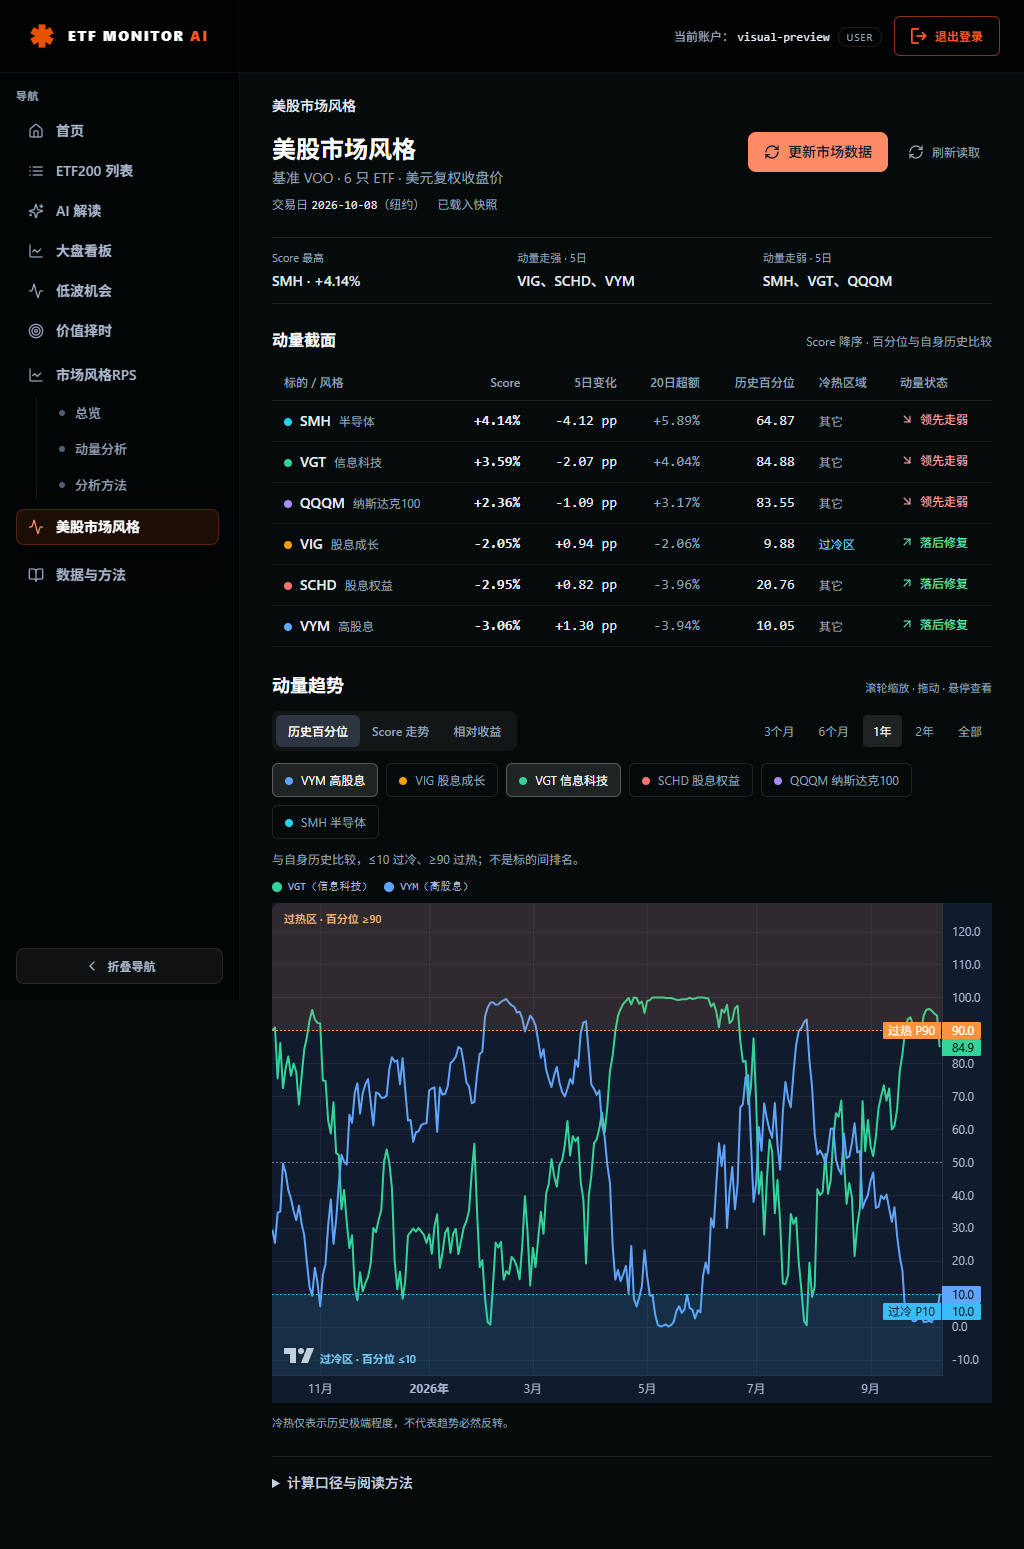
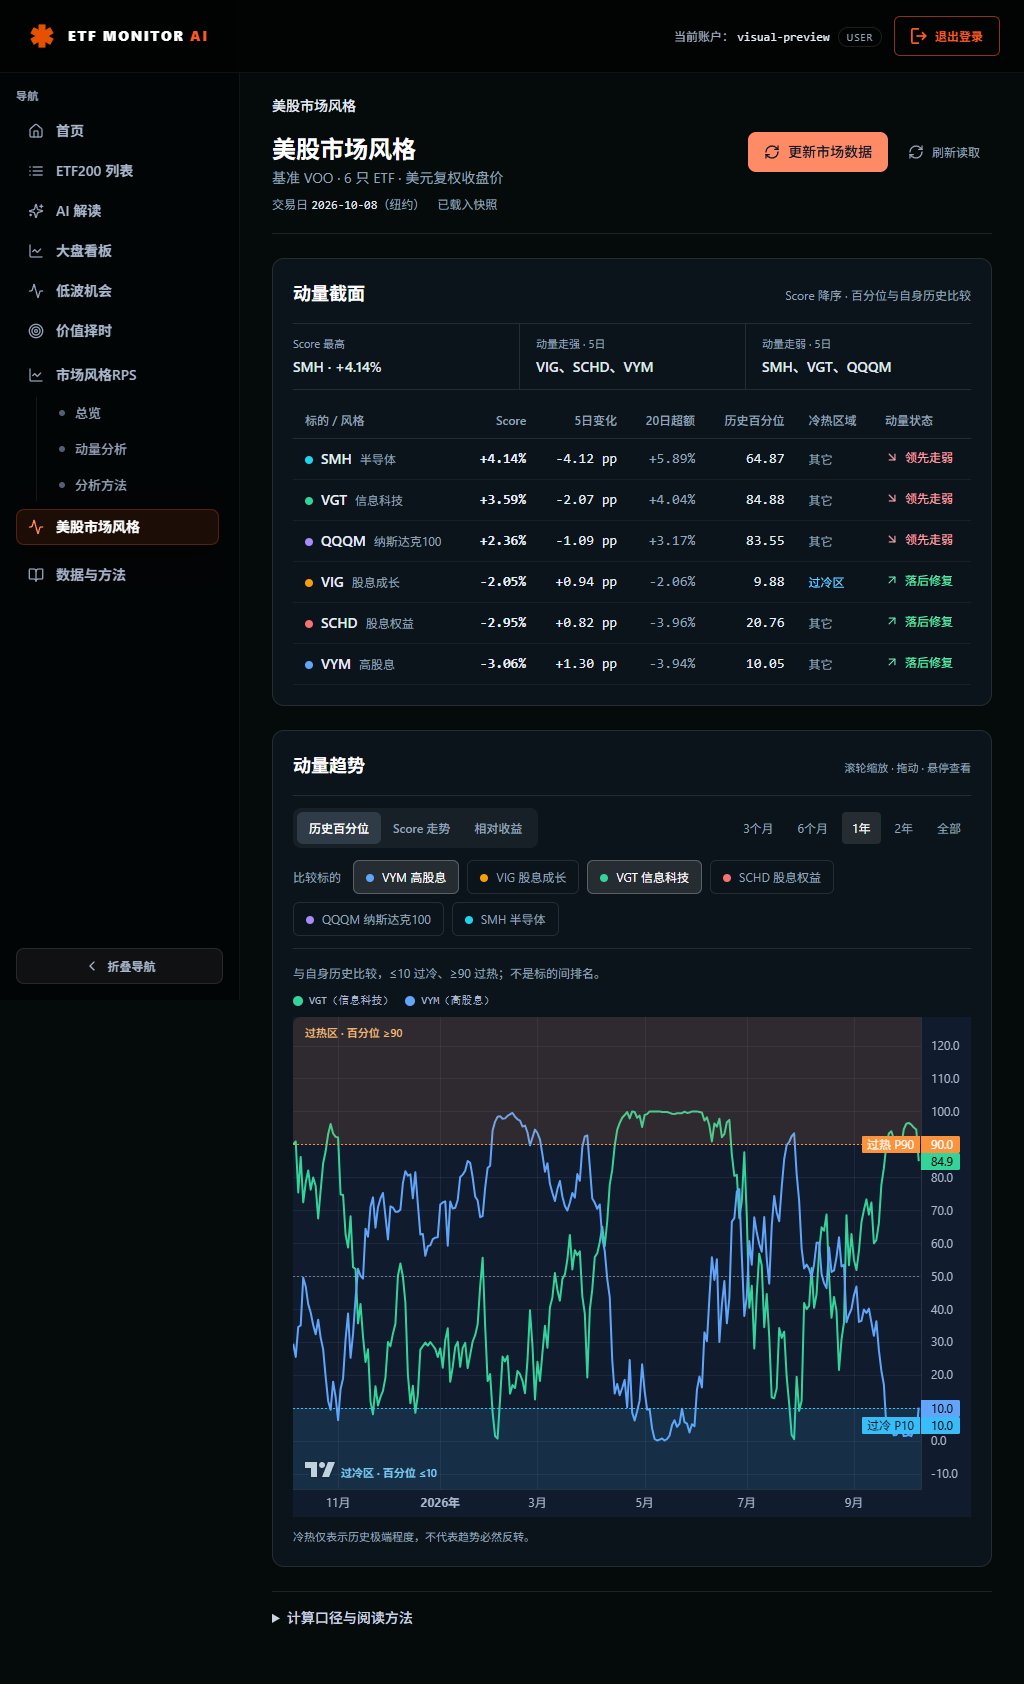
更新UI

diff --git a/src/pages/UsMarketStyle.tsx b/src/pages/UsMarketStyle.tsx
@@ -154,7 +154,8 @@ export default function UsMarketStyle() {
     <PageContentContainer>
       <PageBreadcrumb items={[{ label: '美股市场风格' }]} />
       <div className="space-y-6">
-        <header className="flex flex-wrap items-start justify-between gap-3">
+        <header aria-label="市场数据工具栏" className="space-y-3 border-b border-white/10 pb-5">
+          <div className="flex flex-wrap items-start justify-between gap-4">
           <div>
             <h1 className="text-2xl font-semibold text-white">美股市场风格</h1>
             <p className="mt-1 text-sm text-[#94A3B8]">基准 VOO · {US_STYLE_TARGETS.length} 只 ETF · 美元复权收盘价</p>
@@ -163,7 +164,7 @@ export default function UsMarketStyle() {
               <span className={cn('ml-3', stale ? 'text-amber-300' : 'text-slate-400')}>{stale ? '数据已过期' : '已载入快照'}</span>
             </p>}
           </div>
-          <div className="flex flex-wrap gap-2">
+          <div className="flex flex-wrap items-center gap-2">
           <button type="button" disabled={updating || loading} onClick={() => void updateMarketData()}
             className="inline-flex items-center gap-2 rounded-lg bg-[#FF8A66] px-4 py-2.5 text-sm font-medium text-[#111827] transition-colors hover:bg-[#FFA084] focus-visible:outline-none focus-visible:ring-2 focus-visible:ring-orange-200 disabled:opacity-50 motion-reduce:transition-none">
             <RefreshCw className={cn('h-4 w-4', updating && 'animate-spin')} />{updating ? '更新中...' : '更新市场数据'}
@@ -173,7 +174,7 @@ export default function UsMarketStyle() {
             <RefreshCw className={cn('h-4 w-4', loading && 'animate-spin')} />刷新读取
           </button>
           </div>
-        </header>
+          </div>
         {updateMessage && <div role={updateError ? 'alert' : 'status'} aria-live="polite"
           className={cn('border-l-2 px-3 py-2 text-sm', updateError ? 'border-red-400 text-red-200' : 'border-sky-400/50 text-slate-300')}>
           {updateMessage}{runUrl && <a href={runUrl} target="_blank" rel="noopener noreferrer" className="ml-3 underline">查看 GitHub 任务</a>}
@@ -182,23 +183,24 @@ export default function UsMarketStyle() {
         {error && <p role="alert" className="rounded-lg border border-red-400/25 bg-red-400/10 p-4 text-sm text-red-200">{error}{snapshot ? ' 当前保留上次读取的数据。' : ''}</p>}
         {stale && snapshot && <p role="alert" className="rounded-lg border border-amber-400/25 bg-amber-400/10 p-4 text-sm text-amber-200">数据已超过 7 个自然日未更新，以下仅为历史快照，请检查 GitHub Actions。</p>}
         {missingTargets.length > 0 && <p role="alert" className="rounded-lg border border-amber-400/25 bg-amber-400/10 p-4 text-sm text-amber-200">当前快照尚未包含 {missingTargets.join('、')}，请更新数据库发布校验并运行刷新任务；其余标的仍可独立比较。</p>}
+        </header>
         {snapshot && <>
-          <div className="grid gap-4 border-y border-white/10 py-3 sm:grid-cols-3" aria-label="动量摘要">
+          <section className="min-w-0 rounded-xl border border-white/10 bg-[#0C141B] p-4 sm:p-5" aria-labelledby="us-cross-section">
+            <div className="mb-4 flex flex-wrap items-baseline justify-between gap-2">
+              <h2 id="us-cross-section" className="text-lg font-semibold text-white">动量截面</h2>
+              <p className="text-xs text-[#94A3B8]">Score 降序 · 百分位与自身历史比较</p>
+            </div>
+          <div className="mb-3 grid divide-y divide-white/10 border-y border-white/10 sm:grid-cols-3 sm:divide-x sm:divide-y-0" aria-label="动量摘要">
             {[
               { title: 'Score 最高', text: `${snapshot.items[0].ticker} · ${fmt(snapshot.items[0].scorePct)}` },
               { title: '动量走强 · 5日', text: rising },
               { title: '动量走弱 · 5日', text: falling },
-            ].map((card) => <div key={card.title} className="min-w-0">
+            ].map((card) => <div key={card.title} className="min-w-0 py-3 sm:px-4 sm:first:pl-0 sm:last:pr-0">
               <div className="text-[11px] text-[#94A3B8]">{card.title}</div>
               <div className="mt-1 text-sm font-medium text-slate-200">{card.text}</div>
             </div>)}
           </div>
-          <section aria-labelledby="us-cross-section">
-            <div className="mb-3 flex flex-wrap items-baseline justify-between gap-2">
-              <h2 id="us-cross-section" className="text-base font-semibold text-white">动量截面</h2>
-              <p className="text-xs text-[#94A3B8]">Score 降序 · 百分位与自身历史比较</p>
-            </div>
-            <div className="overflow-x-auto">
+            <div className="overflow-x-auto" role="region" aria-label="动量截面表格" tabIndex={0}>
               <table className="w-full whitespace-nowrap text-left text-sm">
                 <thead className="text-xs text-[#94A3B8]"><tr>
                   {[
@@ -231,13 +233,14 @@ export default function UsMarketStyle() {
                 })}</tbody>
               </table>
             </div>
+            <p className="mt-2 text-[11px] text-slate-400 sm:hidden">左右滑动表格查看全部指标</p>
           </section>
-          <section className="space-y-3" aria-labelledby="us-trend">
+          <section className="min-w-0 space-y-4 rounded-xl border border-white/10 bg-[#0C141B] p-4 sm:p-5" aria-labelledby="us-trend">
             <div className="flex flex-wrap items-baseline justify-between gap-2">
               <h2 id="us-trend" className="text-lg font-semibold text-white">动量趋势</h2>
               <span className="text-[11px] text-slate-400">滚轮缩放 · 拖动 · 悬停查看</span>
             </div>
-            <div className="space-y-3">
+            <div className="space-y-3 border-y border-white/10 py-3" role="group" aria-label="趋势操作区">
               <div className="flex flex-wrap items-center justify-between gap-3">
               <div className="inline-flex rounded-lg bg-white/5 p-1" role="group" aria-label="趋势视图">{[
                 { value: 'percentile' as const, label: '历史百分位', tip: '比较各标的相对自身历史的冷热程度' },
@@ -252,12 +255,15 @@ export default function UsMarketStyle() {
                     range === x.value ? 'bg-white/10 text-white' : 'text-slate-400 hover:text-white')}>{x.label}</button>)}
               </div>
               </div>
-              <div className="flex flex-wrap gap-2">{US_STYLE_TARGETS.map((x) => <button type="button" key={x.ticker} aria-pressed={enabled[x.ticker] && !missingTargets.includes(x.ticker)}
+              <div className="flex flex-wrap items-center gap-2">
+                <span className="mr-1 text-xs text-slate-400">比较标的</span>
+                {US_STYLE_TARGETS.map((x) => <button type="button" key={x.ticker} aria-pressed={enabled[x.ticker] && !missingTargets.includes(x.ticker)}
                 disabled={missingTargets.includes(x.ticker)}
                 onClick={() => setEnabled((prev) => ({ ...prev, [x.ticker]: !prev[x.ticker] }))} className={buttonClass(enabled[x.ticker])}>
                 <span className="mr-2 inline-block h-2 w-2 rounded-full" style={{ backgroundColor: x.color }} />{x.ticker} {x.name}
               </button>)}</div>
             </div>
+            <div className="space-y-3">
             {view === 'score' && (scoreZones ? (
               <div className="flex flex-wrap gap-x-4 text-xs leading-6 text-[#94A3B8]">
                 <span className="mr-4 text-orange-300">过热区：Score ≥ {scoreZones.hot.toFixed(2)}%（P90）</span>
@@ -270,6 +276,7 @@ export default function UsMarketStyle() {
             <RpsStyleChart seriesByTicker={chartSeries} viewMode={view} tickerNameMap={NAMES} tickerColorMap={COLORS}
               enabledTickers={enabled} compactLegend baseLabel="各标的相对 VOO 的 RPS 在区间起点归一为 1" lockEdges={false} scoreBands={false} scoreZones={view === 'percentile' ? PERCENTILE_ZONES : scoreZones} />
             <p className="text-[11px] text-slate-400">冷热仅表示历史极端程度，不代表趋势必然反转。</p>
+            </div>
           </section>
         </>}
         <details className="group border-t border-white/10 pt-4 text-sm leading-7 text-[#94A3B8]">

diff --git a/visual-acceptance/验收结果.md b/visual-acceptance/验收结果.md
@@ -2,7 +2,13 @@
 
 ## 结论
 
-本地截图级视觉验收通过。未发现需要新增代码修复的遮挡、文字截断或整页横向溢出问题。
+“两个主面板＋数据工具栏”分组版已完成，本地截图级视觉验收通过。未发现需要额外修复的遮挡、文字截断或整页横向溢出问题。
+
+- 数据日期、更新操作、任务进度和警告统一归入顶部数据工具栏。
+- 动量摘要归入截面面板，桌面使用竖向分隔，手机使用横向分隔。
+- 截面和趋势使用低对比底色与细边界，标题统一为同级。
+- 趋势视图、时间范围和比较标的归入统一操作区，与图表以分割线区分。
+- 构建、美股相关测试、页面 ESLint 和 git diff --check 通过。计算、默认选项和更新逻辑未改动。
 
 ## 范围
 
@@ -19,7 +25,7 @@
 | 1024 像素布局 | 表格七列完整显示，标的控件正常换行 |
 | 390 像素布局 | 导航收起，按钮正常换行，图表和说明适应可用宽度 |
 | 页面宽度 | 三种尺寸下页面宽度均等于视口宽度，无整页横向溢出 |
-| 手机表格 | 637 像素表格位于 358 像素滚动容器内，需要横向滑动查看后续列，属于预期行为 |
+| 手机表格 | 637 像素表格位于 324 像素滚动容器内，需要横向滑动查看后续列；新增滑动提示并支持容器键盘聚焦 |
 | 图表 | 曲线、坐标轴、冷热底色和阈值标签清晰 |
 | 悬停提示 | 桌面与手机宽度下日期、标的、Score 和基线内容完整 |
 | 方法说明 | 默认折叠，展开后公式与风险说明完整可读 |
@@ -39,6 +45,6 @@
 
 ## 验收说明
 
-首次从桌面直接切换手机尺寸时，截图捕捉到了共享布局过渡过程。使用手机尺寸重新加载页面后复测，偏移未再出现，最终手机截图为复测结果。
+响应式验收在各目标尺寸重新加载页面，截图覆盖当前分组版布局。
 
 本次覆盖 Chromium 模拟视口，未包含真实手机触控、Safari、线上部署及全部异常状态。
